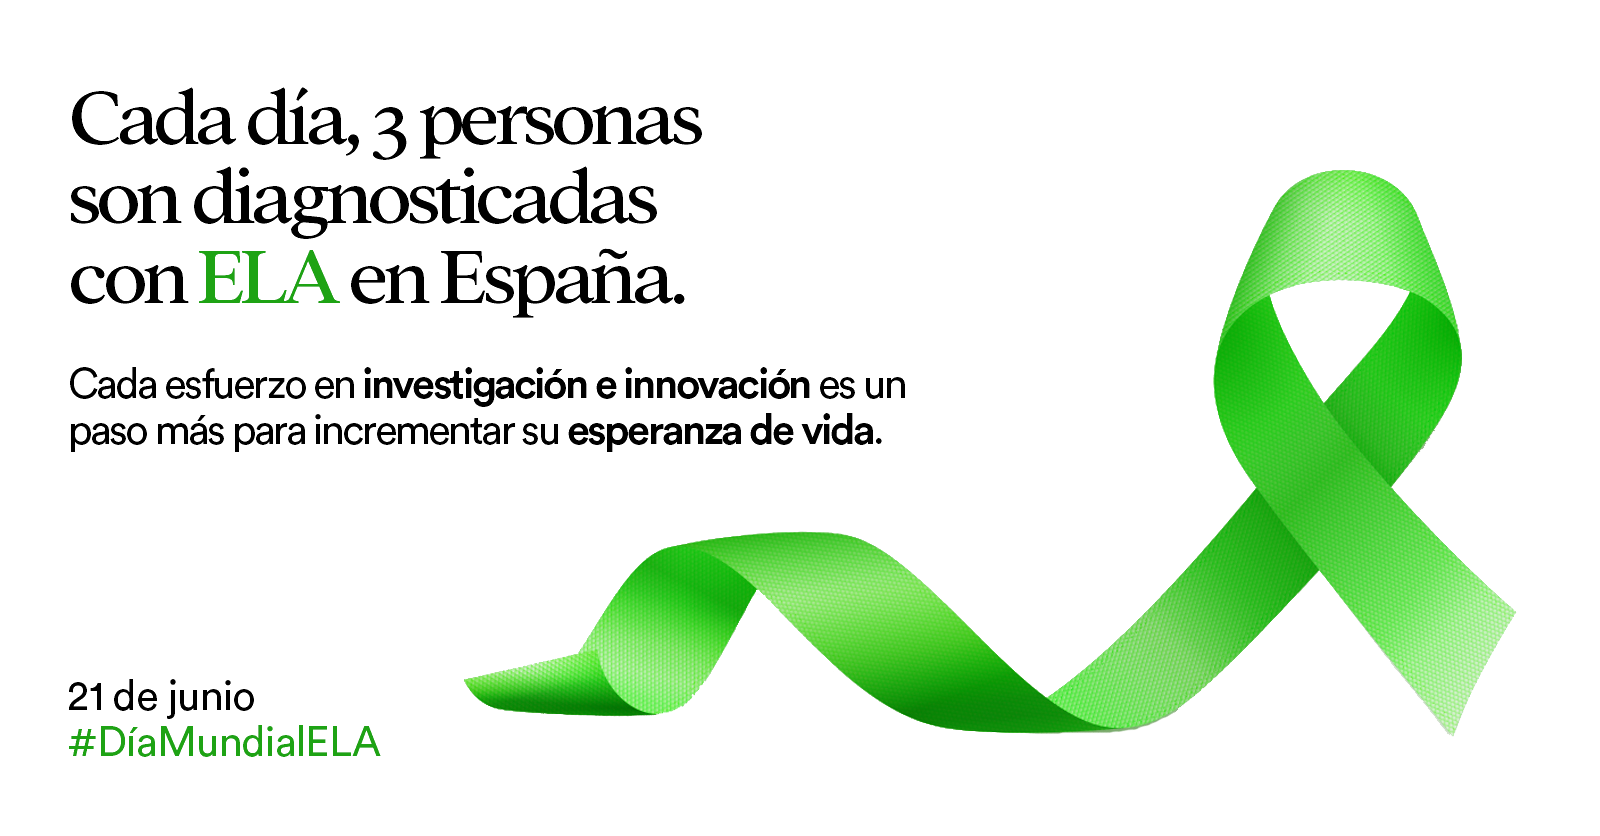
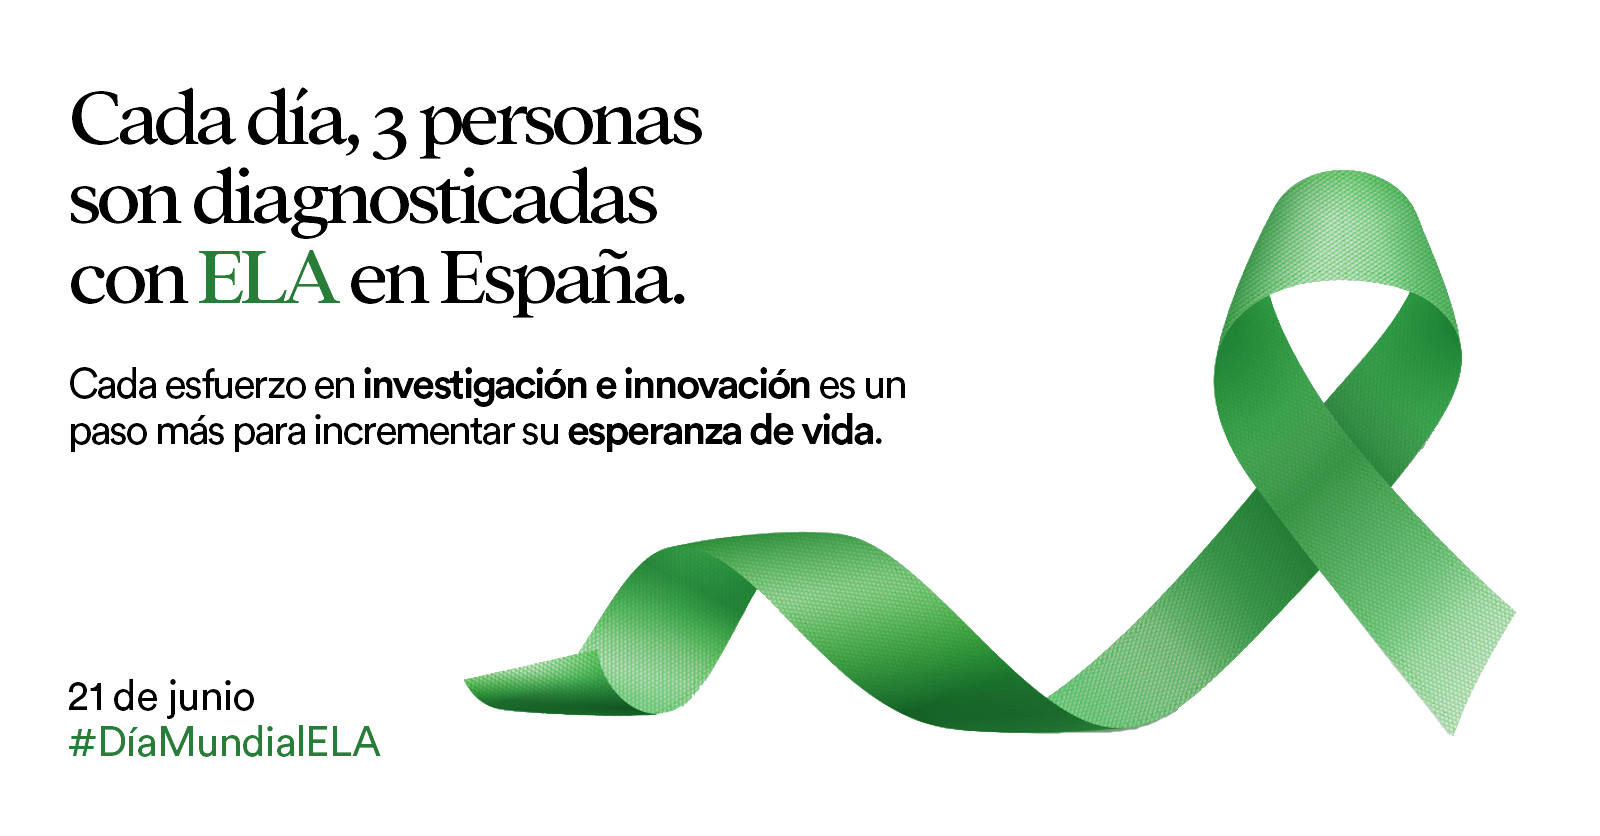
Ela day changed

Changed region(s): [[0.2812, 0.1866, 0.9375, 0.9019], [0.125, 0.2799, 0.2188, 0.3732], [0.0312, 0.8708, 0.25, 0.9019]]

diff --git a/src/components/home/homeSections/LaElaSection.jsx b/src/components/home/homeSections/LaElaSection.jsx
@@ -13,7 +13,7 @@ export function LaElaSection({ config }){
                 <p  className="animate-on-scroll">"Frase aleatoria curiosa del <span className='elaGreen'>ELA</span> cogida desde Base de Datos"</p>
 
                 <div id='imageContainer'>
-                    <img id='elaDay'  className="animate-on-scroll" src={config.imagePath + 'elaDay1.png'}  alt="Imagen de concienciacion de la enfermedad de la ELA en España" />
+                    <img id='elaDay'  className="animate-on-scroll" src={config.imagePath + 'elaDay.png'}  alt="Imagen de concienciacion de la enfermedad de la ELA en España" />
                     <p  className="animate-on-scroll">Cada día, en España, se diagnostican en promedio tres personas con <span className='elaGreen'>ELA</span>, una enfermedad devastadora que afecta a individuos y a sus familias en todo el país. Con el Día Mundial de la <span className='elaGreen'>ELA</span> el 21 de junio, es crucial recordar la importancia de la concienciación y el apoyo. A través de la educación y la solidaridad, podemos trabajar juntos para mejorar la calidad de vida de quienes viven con <span className='elaGreen'>ELA</span> y avanzar en la investigación hacia tratamientos y, eventualmente, una cura. ¡Únete a nosotros en esta lucha!</p>
                 </div>
 

diff --git a/src/components/home/homeSections/joinButton/joinButton.css b/src/components/home/homeSections/joinButton/joinButton.css
@@ -16,6 +16,7 @@
     font-size: 25px;
     font-weight: 900;
     color: black;
+    margin-bottom: 50px;
     transition: transform 400ms cubic-bezier(.68, -0.55, .27, 2.5), border-color 400ms ease-in-out, background-color 400ms ease-in-out;
     cursor: pointer;
     width: 200px;

diff --git a/src/App.css b/src/App.css
@@ -12,7 +12,7 @@
 }
 
 ::-webkit-scrollbar{
-    width: 10px;
+    width: 12px;
 }
 
 ::-webkit-scrollbar-track{
